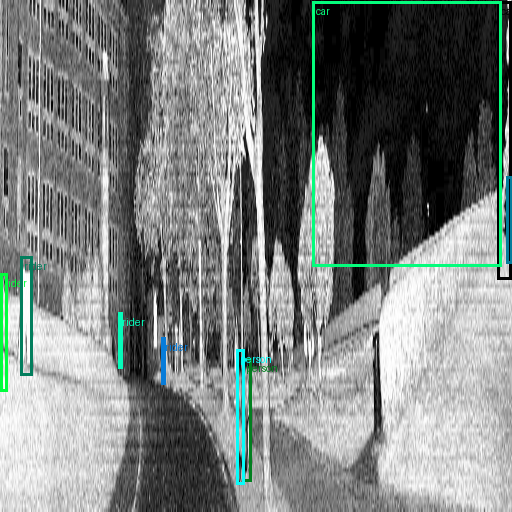
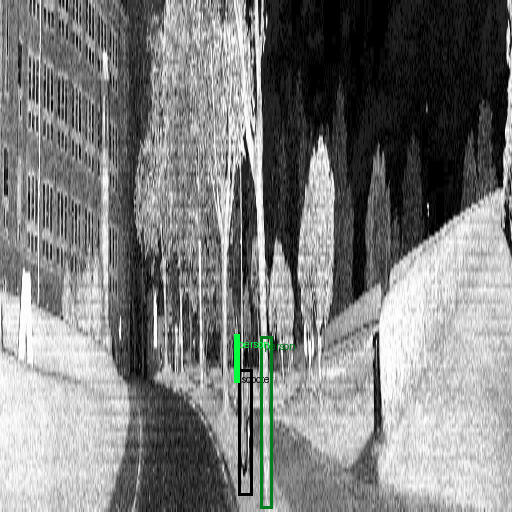
feat: fuck me im stupid kill me

diff --git a/project/datasets/naplab.py b/project/datasets/naplab.py
@@ -125,18 +125,15 @@ class NapLab(VisionDataset):
         for line in open(path):
             line = line.strip().split()
             cls = int(line[0])
-            if cls == 0:
-                cls = 7
-                
-            if cls == 5:
-                cls = 3 # Scooter -> Motorcycle
             
             if cls >= 6: # If its a person or rider
                 cls -= 1 # Shift the classes to the left
             
-            
-            
-            
+            if cls == 0: # Shift car from background to take place of rider
+                cls = 7 
+                
+            if cls == 5:
+                cls = 3 # Scooter -> Motorcycle
         
             x, y, w, h = map(float, line[1:])
             
